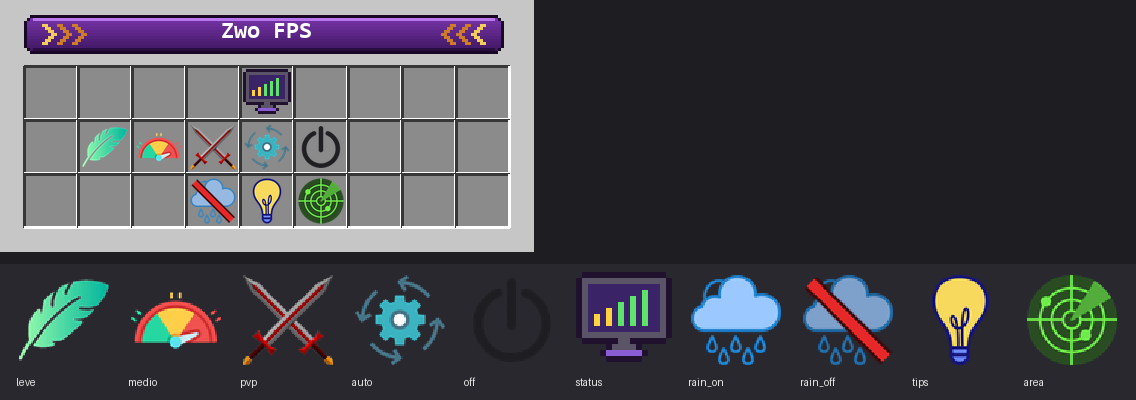
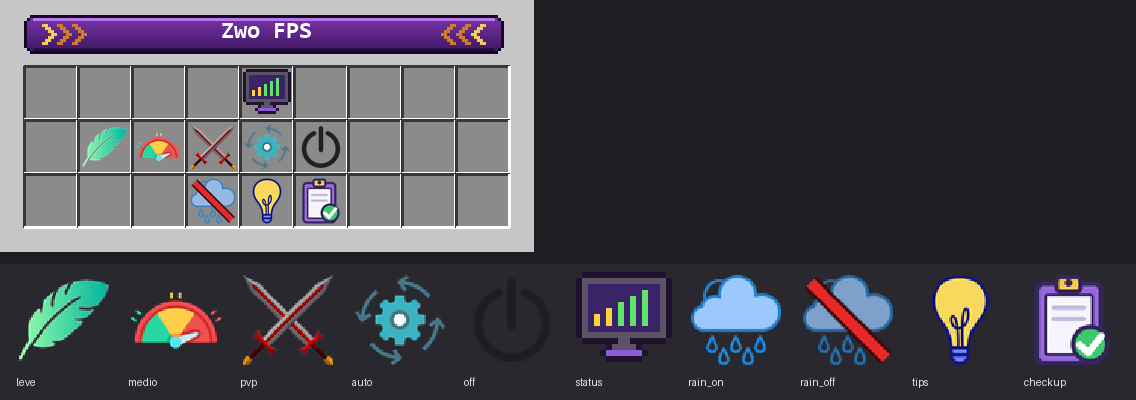
Replace nearby-entities view with a player game check-up (1.2.0)

Changed region(s): [[0.8935, 0.69, 0.9859, 0.96], [0.2465, 0.45, 0.3081, 0.57]]

diff --git a/src/main/java/br/com/zwo/fps/command/FpsCommands.java b/src/main/java/br/com/zwo/fps/command/FpsCommands.java
@@ -27,7 +27,6 @@ import java.util.TreeMap;
 /** Handles /fps (players) and /zwofps (admin). */
 public final class FpsCommands implements TabExecutor {
     private static final double AREA_RADIUS = 64;
-    private static final long AREA_COOLDOWN_MS = 5_000;
 
     private final ZwoFPS plugin;
 
@@ -57,9 +56,10 @@ public final class FpsCommands implements TabExecutor {
         String sub = args.length == 0 ? "menu" : args[0].toLowerCase(Locale.ROOT);
         switch (sub) {
             case "menu" -> plugin.menu().open(player);
-            case "status" -> sendStatus(player, player);
+            case "status" -> sendStatus(player, player, false);
             case "dicas", "tips" -> sendTips(player);
-            case "area", "área" -> sendArea(player);
+            // "area" used to list nearby entities; it now opens the check-up (no world info for players).
+            case "checkup", "check", "jogo", "area", "área" -> sendCheckup(player);
             case "chuva", "rain" -> toggleRain(player);
             default -> setMode(player, player, normalizeMode(sub));
         }
@@ -116,19 +116,28 @@ public final class FpsCommands implements TabExecutor {
         for (String line : Diagnostics.tips(player, state)) player.sendMessage(Text.mm(line));
     }
 
-    public void sendArea(Player player) {
+    public void sendCheckup(Player player) {
         PlayerState state = plugin.modes().state(player);
-        long now = System.currentTimeMillis();
-        if (!player.hasPermission("zwofps.admin") && now - state.lastAreaCommand() < AREA_COOLDOWN_MS) {
-            text().send(player, "area-cooldown");
-            return;
+        text().sendRaw(player, "<light_purple><bold>Check-up do seu jogo");
+        for (String line : Diagnostics.checkup(player, state, plugin.cfg(), plugin.modes(), plugin.prefs().mode(player))) {
+            player.sendMessage(Text.mm(line));
         }
-        state.setLastAreaCommand(now);
-        text().sendRaw(player, "<light_purple><bold>O que tem por perto");
-        for (String line : Diagnostics.area(player, state, plugin.cfg(), AREA_RADIUS)) player.sendMessage(Text.mm(line));
     }
 
-    private void sendStatus(CommandSender to, Player target) {
+    /** Staff only: entity census around a player (or the sender). It reveals bases, so never for players. */
+    private void sendArea(CommandSender sender, String[] args) {
+        Player target = args.length > 1 ? Bukkit.getPlayerExact(args[1]) : (sender instanceof Player p ? p : null);
+        if (target == null) {
+            text().send(sender, "player-not-found");
+            return;
+        }
+        PlayerState state = plugin.modes().state(target);
+        text().sendRaw(sender, "<light_purple><bold>Entidades perto de <aqua>" + target.getName());
+        for (String line : Diagnostics.area(target, state, plugin.cfg(), AREA_RADIUS)) sender.sendMessage(Text.mm(line));
+    }
+
+    /** detailed = staff view with hidden-entity counts, which describe the surroundings. */
+    private void sendStatus(CommandSender to, Player target, boolean detailed) {
         PlayerState state = plugin.modes().state(target);
         FpsConfig cfg = plugin.cfg();
         FpsConfig.Profile p = state.profile();
@@ -142,6 +151,7 @@ public final class FpsCommands implements TabExecutor {
         to.sendMessage(Text.mm("<gray>Clima limpo: <white>" + (state.weatherApplied() ? "sim" : "não")
                 + " <dark_gray>|</dark_gray> <gray>Partículas no cliente: <white>" + Diagnostics.particlesName(ModeService.particles(target))
                 + " <dark_gray>|</dark_gray> <gray>Client: <white>" + Diagnostics.brand(target)));
+        if (!detailed) return;
         to.sendMessage(Text.mm("<gray>Entidades escondidas: <white>" + state.hiddenCount()
                 + " <dark_gray>|</dark_gray> <gray>último scan: <white>" + String.format(Locale.ROOT, "%.2f", state.lastScanNanos() / 1_000_000.0) + " ms"));
         int[] hidden = state.hiddenPerCategory();
@@ -170,7 +180,7 @@ public final class FpsCommands implements TabExecutor {
             case "check" -> {
                 Player target = args.length > 1 ? Bukkit.getPlayerExact(args[1]) : null;
                 if (target == null) text().send(sender, "player-not-found");
-                else sendStatus(sender, target);
+                else sendStatus(sender, target, true);
             }
             case "set" -> {
                 Player target = args.length > 1 ? Bukkit.getPlayerExact(args[1]) : null;
@@ -183,11 +193,13 @@ public final class FpsCommands implements TabExecutor {
                 }
             }
             case "hotspots" -> hotspots(sender, args);
+            case "area" -> sendArea(sender, args);
             default -> {
                 text().sendRaw(sender, "<white>Comandos de admin:");
                 sender.sendMessage(Text.mm("<gray>/zwofps stats <dark_gray>- uso e custo do plugin"));
                 sender.sendMessage(Text.mm("<gray>/zwofps check <jogador> <dark_gray>- status e client do jogador"));
                 sender.sendMessage(Text.mm("<gray>/zwofps set <jogador> <modo> <dark_gray>- troca o modo"));
+                sender.sendMessage(Text.mm("<gray>/zwofps area [jogador] <dark_gray>- entidades num raio de 64 blocos"));
                 sender.sendMessage(Text.mm("<gray>/zwofps hotspots [mundo] [qtd] <dark_gray>- chunks com mais entidades/tile entities"));
                 sender.sendMessage(Text.mm("<gray>/zwofps reload"));
             }
@@ -270,8 +282,8 @@ public final class FpsCommands implements TabExecutor {
         List<String> options = new ArrayList<>();
         if (command.getName().equalsIgnoreCase("zwofps")) {
             if (!sender.hasPermission("zwofps.admin")) return List.of();
-            if (args.length == 1) options.addAll(List.of("stats", "check", "set", "hotspots", "reload"));
-            else if (args.length == 2 && (args[0].equalsIgnoreCase("check") || args[0].equalsIgnoreCase("set")))
+            if (args.length == 1) options.addAll(List.of("stats", "check", "set", "area", "hotspots", "reload"));
+            else if (args.length == 2 && (args[0].equalsIgnoreCase("check") || args[0].equalsIgnoreCase("set") || args[0].equalsIgnoreCase("area")))
                 Bukkit.getOnlinePlayers().forEach(p -> options.add(p.getName()));
             else if (args.length == 2 && args[0].equalsIgnoreCase("hotspots"))
                 Bukkit.getWorlds().forEach(w -> options.add(w.getName()));
@@ -279,7 +291,7 @@ public final class FpsCommands implements TabExecutor {
         } else if (args.length == 1) {
             options.add("menu");
             options.addAll(plugin.cfg().modeIds());
-            options.addAll(List.of("status", "dicas", "area", "chuva"));
+            options.addAll(List.of("status", "dicas", "checkup", "chuva"));
         }
         String last = args.length == 0 ? "" : args[args.length - 1].toLowerCase(Locale.ROOT);
         options.removeIf(o -> !o.toLowerCase(Locale.ROOT).startsWith(last));

diff --git a/src/main/java/br/com/zwo/fps/core/Diagnostics.java b/src/main/java/br/com/zwo/fps/core/Diagnostics.java
@@ -12,7 +12,11 @@ import java.util.List;
 import java.util.Locale;
 import java.util.Map;
 
-/** Client-aware tips and local entity census. Everything returns MiniMessage lines. */
+/**
+ * Client-aware tips, the player's own game check-up and the staff-only entity census.
+ * Everything returns MiniMessage lines. Player-facing output never describes the world around
+ * them: entity counts near a player reveal bases and farms.
+ */
 public final class Diagnostics {
     private Diagnostics() {}
 
@@ -70,7 +74,63 @@ public final class Diagnostics {
         return lines;
     }
 
-    /** Counts entities near the player per culling category and how many we hide for them. */
+    /** Player-only check-up: their own client settings and what the server sends them. No world info. */
+    public static List<String> checkup(Player player, PlayerState state, FpsConfig cfg, ModeService modes, String currentMode) {
+        List<String> lines = new ArrayList<>();
+        String brandRaw = brand(player);
+        String brand = brandRaw.toLowerCase(Locale.ROOT);
+        int clientView = player.getClientViewDistance();
+        ClientOption.ParticleVisibility particles = ModeService.particles(player);
+        int issues = 0;
+
+        boolean vanilla = brand.contains("vanilla");
+        if (vanilla) issues++;
+        lines.add(row("Client", brandRaw, vanilla ? "<red>sem mods de otimização" : "<green>ok"));
+
+        String viewNote;
+        if (clientView <= 0) viewNote = "<gray>?";
+        else if (clientView <= 8) viewNote = "<green>leve";
+        else if (clientView <= 12) viewNote = "<yellow>ok";
+        else { viewNote = "<red>alto"; issues++; }
+        lines.add(row("Render distance", String.valueOf(clientView), viewNote));
+
+        String partNote;
+        if (particles == ClientOption.ParticleVisibility.ALL) { partNote = "<red>pesado"; issues++; }
+        else if (particles == ClientOption.ParticleVisibility.DECREASED) partNote = "<yellow>ok";
+        else if (particles == ClientOption.ParticleVisibility.MINIMAL) partNote = "<green>leve";
+        else partNote = "<gray>?";
+        lines.add(row("Partículas", particlesName(particles), partNote));
+
+        int send = state.appliedSendDistance();
+        lines.add(row("Chunks que o servidor envia", String.valueOf(send > 0 ? send : player.getViewDistance()),
+                send > 0 ? "<green>reduzido pelo Zwo FPS" : "<gray>padrão do servidor"));
+        lines.add(row("Chuva", state.weatherApplied() ? "escondida" : "visível",
+                state.weatherApplied() ? "<green>menos partículas" : "<gray>normal"));
+
+        lines.add(issues == 0 ? "<green>✔ Nada pesado nas suas configurações."
+                : "<yellow>⚠ " + issues + (issues == 1 ? " ponto" : " pontos") + " de atenção acima.");
+
+        FpsConfig.Profile rec = modes.resolveAuto(player, cfg);
+        if (rec == null && issues > 0) rec = cfg.profile("medio");
+        FpsConfig.Profile applied = state.profile();
+        if (rec != null && applied != null && applied.id().equals(rec.id())) {
+            lines.add("<green>✔ Você já está no modo recomendado: " + rec.displayName());
+        } else if (rec != null) {
+            lines.add("<gray>Recomendado: " + rec.displayName() + " <click:run_command:'/fps " + rec.id() + "'>"
+                    + "<hover:show_text:'<green>Clique para aplicar'><green><bold>[Aplicar]</bold></green></hover></click>");
+        } else if (!FpsConfig.MODE_AUTO.equals(currentMode)) {
+            lines.add("<gray>Dica: o modo <aqua>Auto</aqua> ajusta sozinho se você baixar as configurações. "
+                    + "<click:run_command:'/fps auto'><hover:show_text:'<green>Clique para ativar'><green><bold>[Ativar]</bold></green></hover></click>");
+        }
+        lines.add("<click:run_command:'/fps dicas'><hover:show_text:'Ver dicas'><gray>Mais dicas: <yellow><u>/fps dicas</u></yellow></hover></click>");
+        return lines;
+    }
+
+    private static String row(String label, String value, String note) {
+        return "<dark_gray>- <gray>" + label + ": <white>" + value + "</white> <dark_gray>(</dark_gray>" + note + "<dark_gray>)";
+    }
+
+    /** Staff only: counts entities near the player per culling category and how many we hide for them. */
     public static List<String> area(Player player, PlayerState state, FpsConfig cfg, double radius) {
         int n = cfg.categories().size();
         int[] total = new int[n];

diff --git a/src/main/java/br/com/zwo/fps/menu/FpsMenu.java b/src/main/java/br/com/zwo/fps/menu/FpsMenu.java
@@ -29,7 +29,7 @@ public final class FpsMenu implements Listener {
     private static final int SLOT_STATUS = 4;
     private static final int SLOT_RAIN = 21;
     private static final int SLOT_TIPS = 22;
-    private static final int SLOT_AREA = 23;
+    private static final int SLOT_CHECKUP = 23;
 
     private final ZwoFPS plugin;
 
@@ -69,8 +69,8 @@ public final class FpsMenu implements Listener {
                 List.of("<gray>Chuva e neve geram muitas", "<gray>partículas. Os perfis escondem", "<gray>por padrão.", "", "<yellow>Clique para alternar"), false));
         inv.setItem(SLOT_TIPS, item(Material.BOOK, cfg.menuModel("tips"), "<gold>Dicas para o seu PC",
                 List.of("<gray>Dicas baseadas no seu client", "<gray>e nas suas configurações.", "", "<yellow>Clique para ver"), false));
-        inv.setItem(SLOT_AREA, item(Material.SPYGLASS, cfg.menuModel("area"), "<light_purple>O que tem por perto",
-                List.of("<gray>Mostra as entidades ao redor", "<gray>e quantas estão escondidas", "<gray>para você.", "", "<yellow>Clique para ver"), false));
+        inv.setItem(SLOT_CHECKUP, item(Material.WRITABLE_BOOK, cfg.menuModel("checkup"), "<light_purple>Check-up do seu jogo",
+                List.of("<gray>Confere render distance,", "<gray>partículas e client, e diz", "<gray>qual modo combina com você.", "", "<yellow>Clique para ver"), false));
         player.openInventory(inv);
     }
 
@@ -113,7 +113,6 @@ public final class FpsMenu implements Listener {
         lore.add("<gray>Modo: <white>" + mode);
         lore.add("<gray>Perfil aplicado: " + (p == null ? "<white>nenhum" : p.displayName()));
         lore.add("<gray>Chunks enviados: <white>" + (state.appliedSendDistance() > 0 ? state.appliedSendDistance() : "padrão do servidor"));
-        lore.add("<gray>Entidades escondidas: <white>" + state.hiddenCount());
         if (cfg.isWorldDisabled(player.getWorld().getName())) lore.add("<yellow>Este mundo está desativado.");
         return item(Material.PLAYER_HEAD, cfg.menuModel("status"), "<white>Seu status", lore, false);
     }
@@ -154,9 +153,9 @@ public final class FpsMenu implements Listener {
                 player.closeInventory();
                 plugin.commands().sendTips(player);
             }
-            case SLOT_AREA -> {
+            case SLOT_CHECKUP -> {
                 player.closeInventory();
-                plugin.commands().sendArea(player);
+                plugin.commands().sendCheckup(player);
             }
             default -> { }
         }

diff --git a/src/main/java/br/com/zwo/fps/core/PlayerState.java b/src/main/java/br/com/zwo/fps/core/PlayerState.java
@@ -19,7 +19,6 @@ public final class PlayerState {
     long lastScanNanos;
     int[] hiddenPerCategory = new int[0];
     int[] seenPerCategory = new int[0];
-    long lastAreaCommand;
 
     PlayerState(UUID playerId) {
         this.playerId = playerId;
@@ -33,6 +32,4 @@ public final class PlayerState {
     public int[] hiddenPerCategory() { return hiddenPerCategory; }
     public int[] seenPerCategory() { return seenPerCategory; }
     public long lastScanNanos() { return lastScanNanos; }
-    public long lastAreaCommand() { return lastAreaCommand; }
-    public void setLastAreaCommand(long millis) { this.lastAreaCommand = millis; }
 }

diff --git a/src/main/java/br/com/zwo/fps/config/FpsConfig.java b/src/main/java/br/com/zwo/fps/config/FpsConfig.java
@@ -140,6 +140,8 @@ public final class FpsConfig {
                 if (nk != null) models.put(button, nk);
             }
         }
+        // Buttons added after a config was generated still get their icon.
+        models.putIfAbsent("checkup", new NamespacedKey("zwofps", "checkup"));
         cfg.menuModels = Collections.unmodifiableMap(models);
         return cfg;
     }

diff --git a/README.md b/README.md
@@ -40,15 +40,19 @@ through `EntityRemoveEvent`.
 |---|---|---|
 | `/fps` | `zwofps.use` (everyone) | Opens the menu |
 | `/fps <leve\|medio\|pvp\|auto\|off>` | `zwofps.use` | Changes the mode |
-| `/fps status` | `zwofps.use` | Applied profile, sent chunks, hidden entities per category |
+| `/fps status` | `zwofps.use` | Mode, applied profile, sent chunks, weather and client settings |
 | `/fps dicas` | `zwofps.use` | Tips based on the player's client and settings |
-| `/fps area` | `zwofps.use` | Entities within 64 blocks and how many are hidden for you |
+| `/fps checkup` | `zwofps.use` | Check-up of the player's own game (render distance, particles, client, sent chunks) with a recommended mode |
 | `/fps chuva` | `zwofps.use` | Shows/hides rain |
 | `/zwofps stats` | `zwofps.admin` | Modes in use, total hidden, average scan cost, MSPT |
-| `/zwofps check <player>` | `zwofps.admin` | A player's status and client |
+| `/zwofps check <player>` | `zwofps.admin` | A player's status and client, including hidden entities per category |
+| `/zwofps area [player]` | `zwofps.admin` | Entities within 64 blocks of a player |
 | `/zwofps set <player> <mode>` | `zwofps.admin` | Changes someone's mode |
 | `/zwofps hotspots [world] [amount]` | `zwofps.admin` | Heaviest chunks |
 | `/zwofps reload` | `zwofps.admin` | Reloads the config |
+
+Players never get information about what is around them (entity counts near a player reveal
+bases and farms). That census is staff-only (`/zwofps area`, `/zwofps check`).
 
 Command arguments and in-game messages are in Portuguese by default; all messages can be changed
 in `config.yml`.
@@ -56,6 +60,9 @@ in `config.yml`.
 ## PlaceholderAPI
 
 `%zwofps_mode%`, `%zwofps_profile%`, `%zwofps_hidden%`, `%zwofps_send_distance%`
+
+`%zwofps_hidden%` counts entities hidden around the player, so avoid showing it to players
+(scoreboards, tab) for the same reason.
 
 ## Menu icons (resource pack)
 
